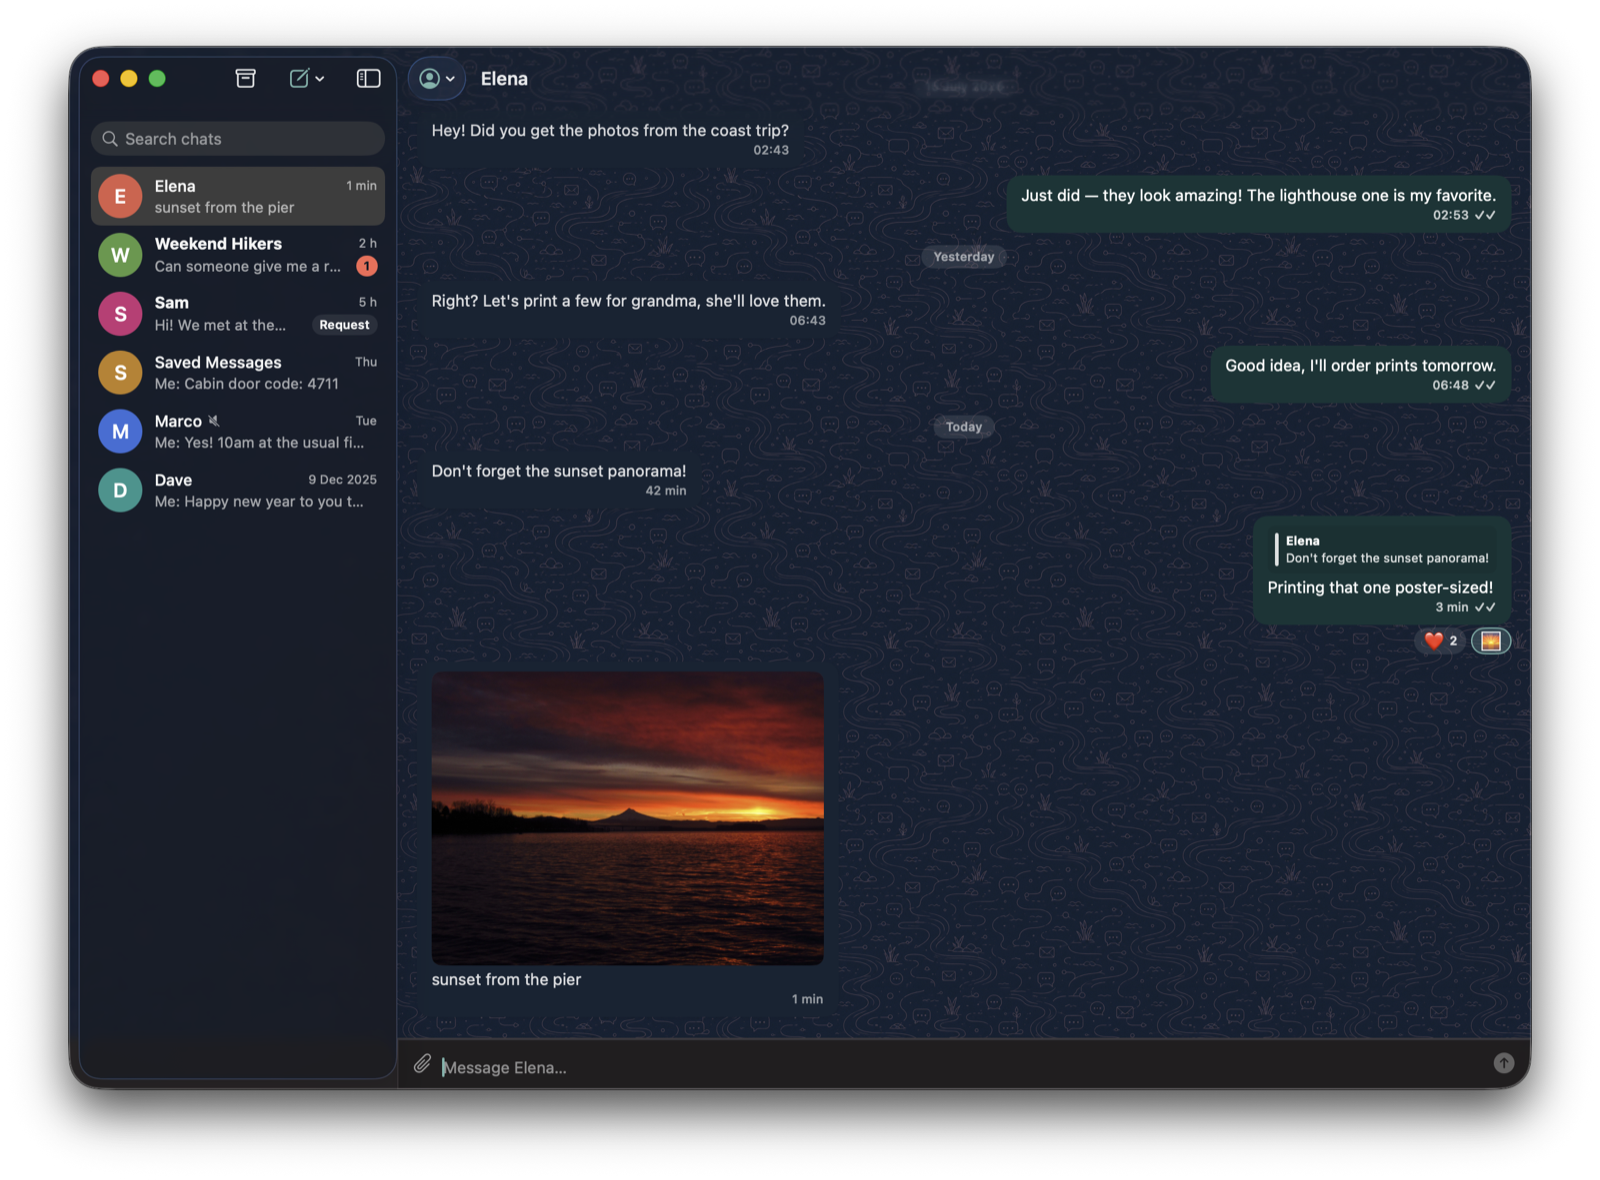
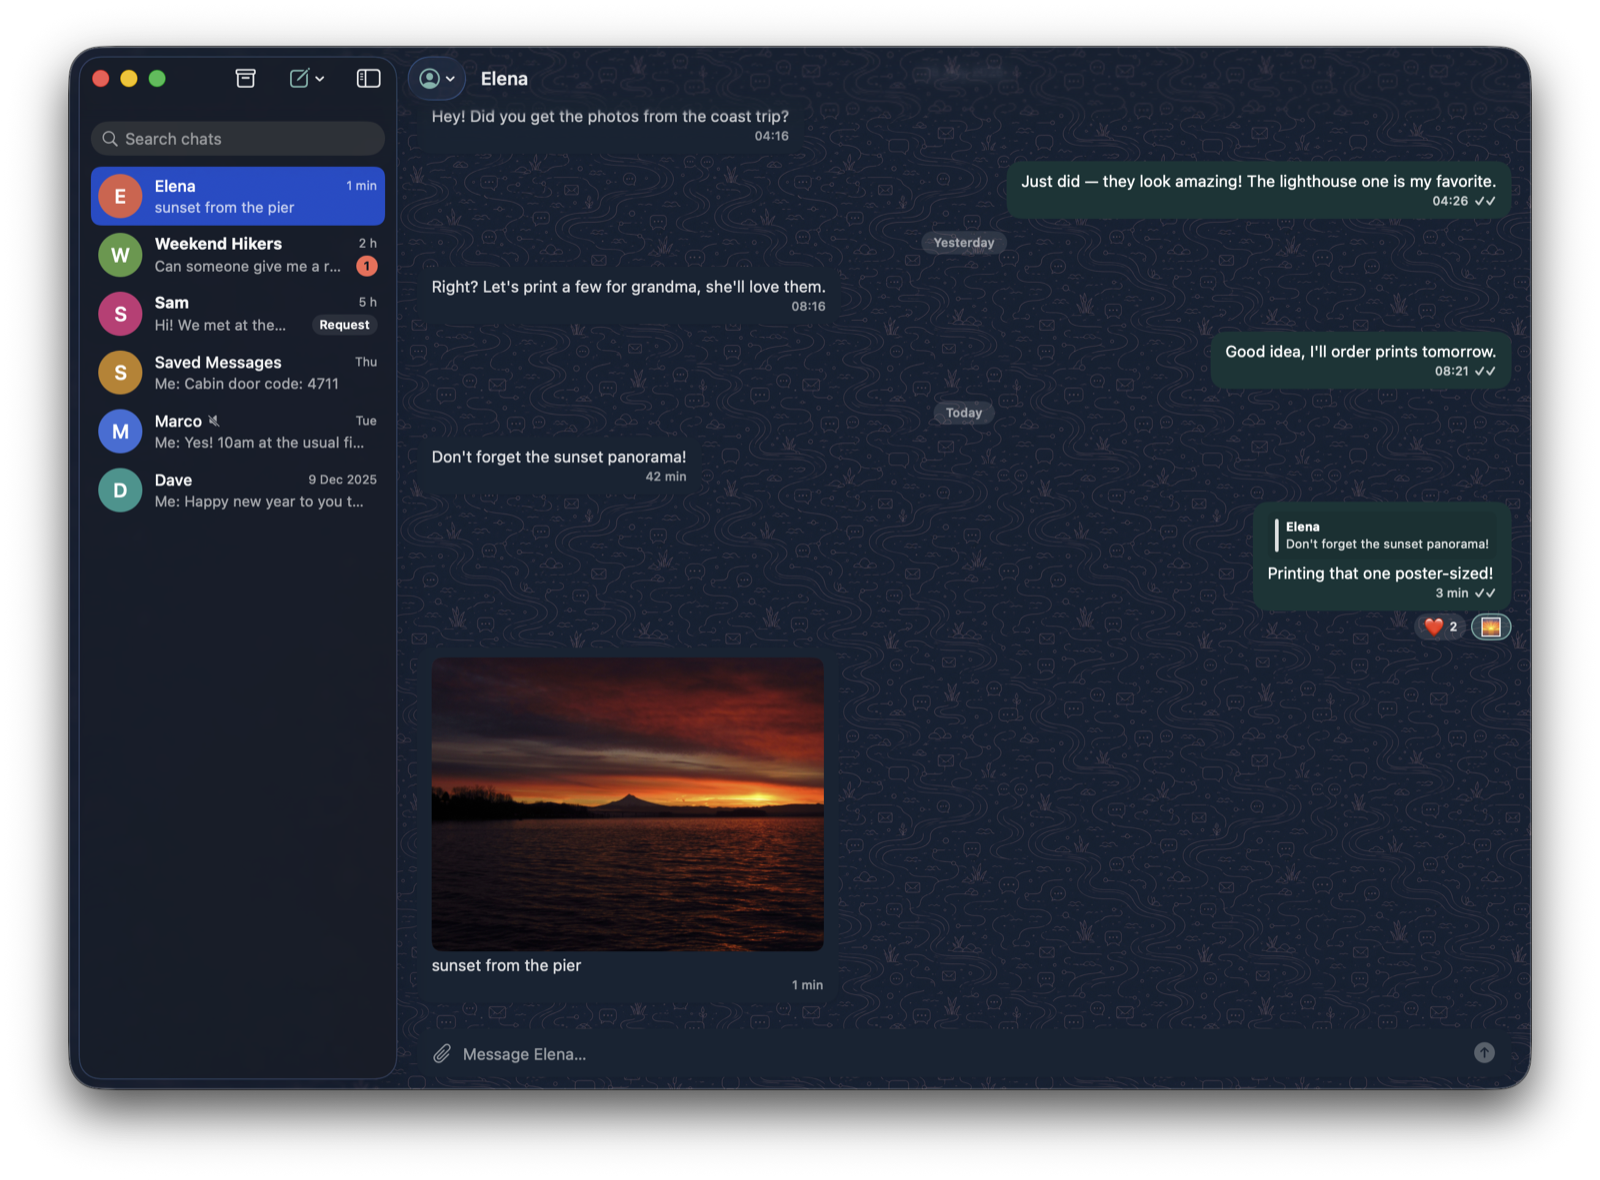
docs(site): refresh screenshots (floating composer, faded scrollers); archive chrome-polish issue

diff --git a/meta/issues/chat-chrome-polish.md b/meta/issues/chat-chrome-polish.md
@@ -33,3 +33,10 @@ Screenshot review (2026-07-17) found three chrome-level rough edges:
 
 - Baseline alignment and the floating-card look are visual — eyeball-verified
   by the user, declared untestable per project rules.
+
+## Outcome (2026-07-17)
+
+Done and user-confirmed ("nice, looks great"): sidebar scroller fades
+(OverlayScrollers window-sweep redesign, unit-tested for both hierarchy
+shapes), composer icons baseline-aligned, floating rounded composer card
+over the tiled backdrop. New light/dark captures installed on the site.

diff --git a/meta/issues_archive.md b/meta/issues_archive.md
@@ -13,3 +13,4 @@
 - [x] [Publish: README, license, GitHub repo, nightly DMG, Pages site](issues/publish-github-nightly-site.md)
 - [x] [Estuary rebrand — first slice (name + palette)](issues/estuary-rebrand.md)
 - [x] [Website screenshots with demo data](issues/website-screenshots.md)
+- [x] [Chat chrome polish: sidebar scrollbar, composer alignment + shape](issues/chat-chrome-polish.md)

diff --git a/meta/issues.md b/meta/issues.md
@@ -5,4 +5,3 @@
 - [ ] [App bundle polish](issues/app-bundle-polish.md)
 - [ ] [Windows/Linux shell decision](issues/windows-linux-shell-decision.md)
 - [ ] [Native-feel polish batch](issues/native-feel-polish.md)
-- [ ] [Chat chrome polish: sidebar scrollbar, composer alignment + shape](issues/chat-chrome-polish.md)
